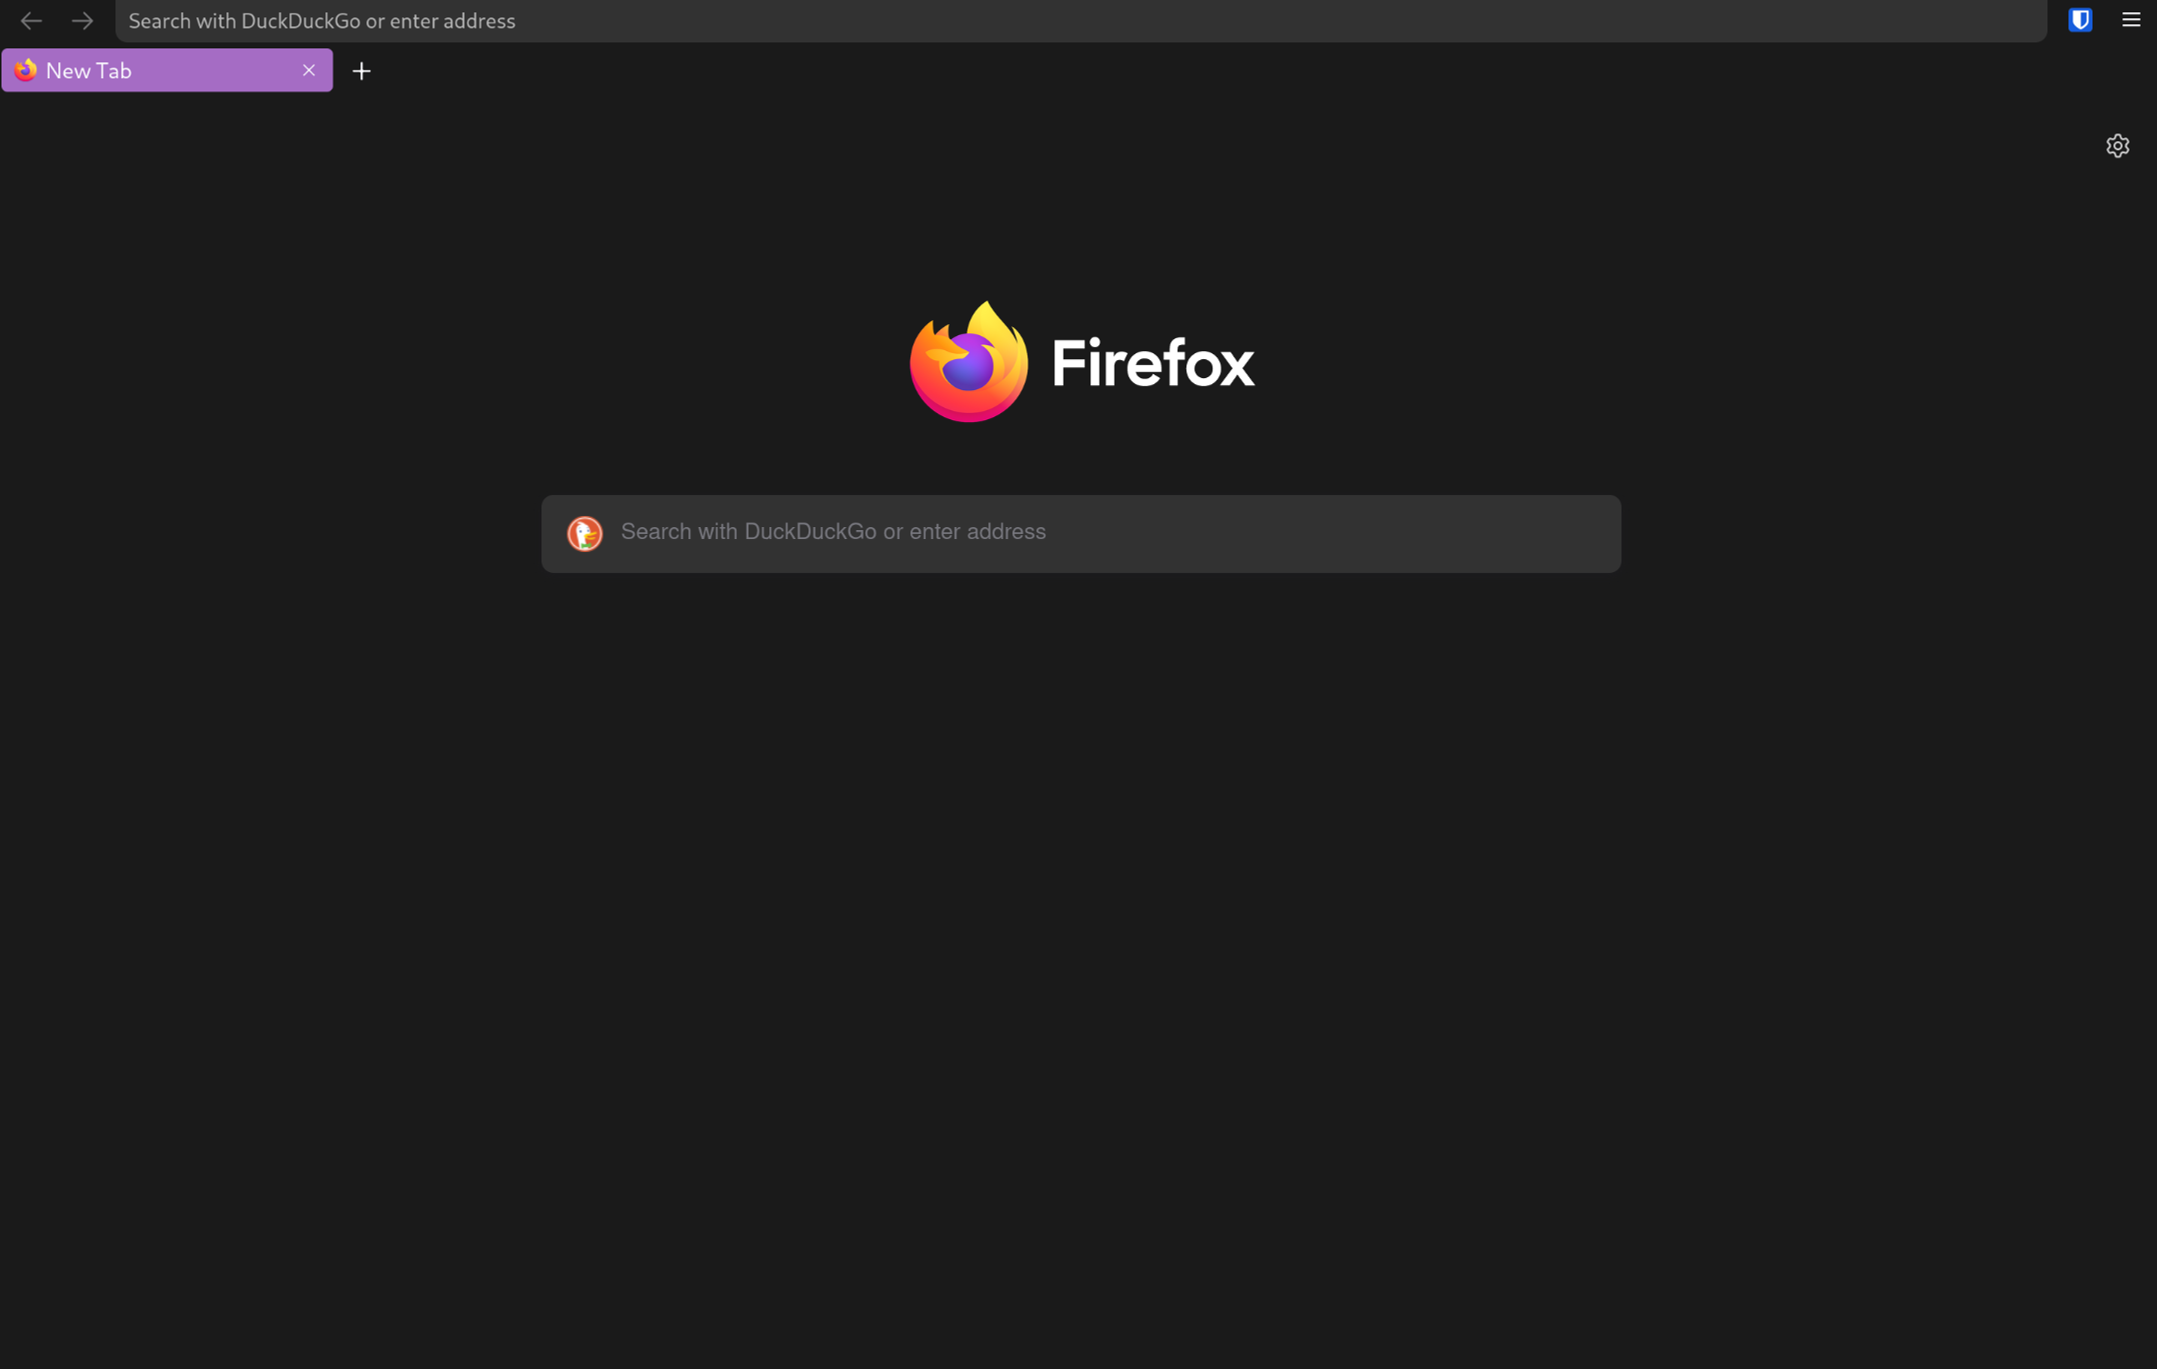
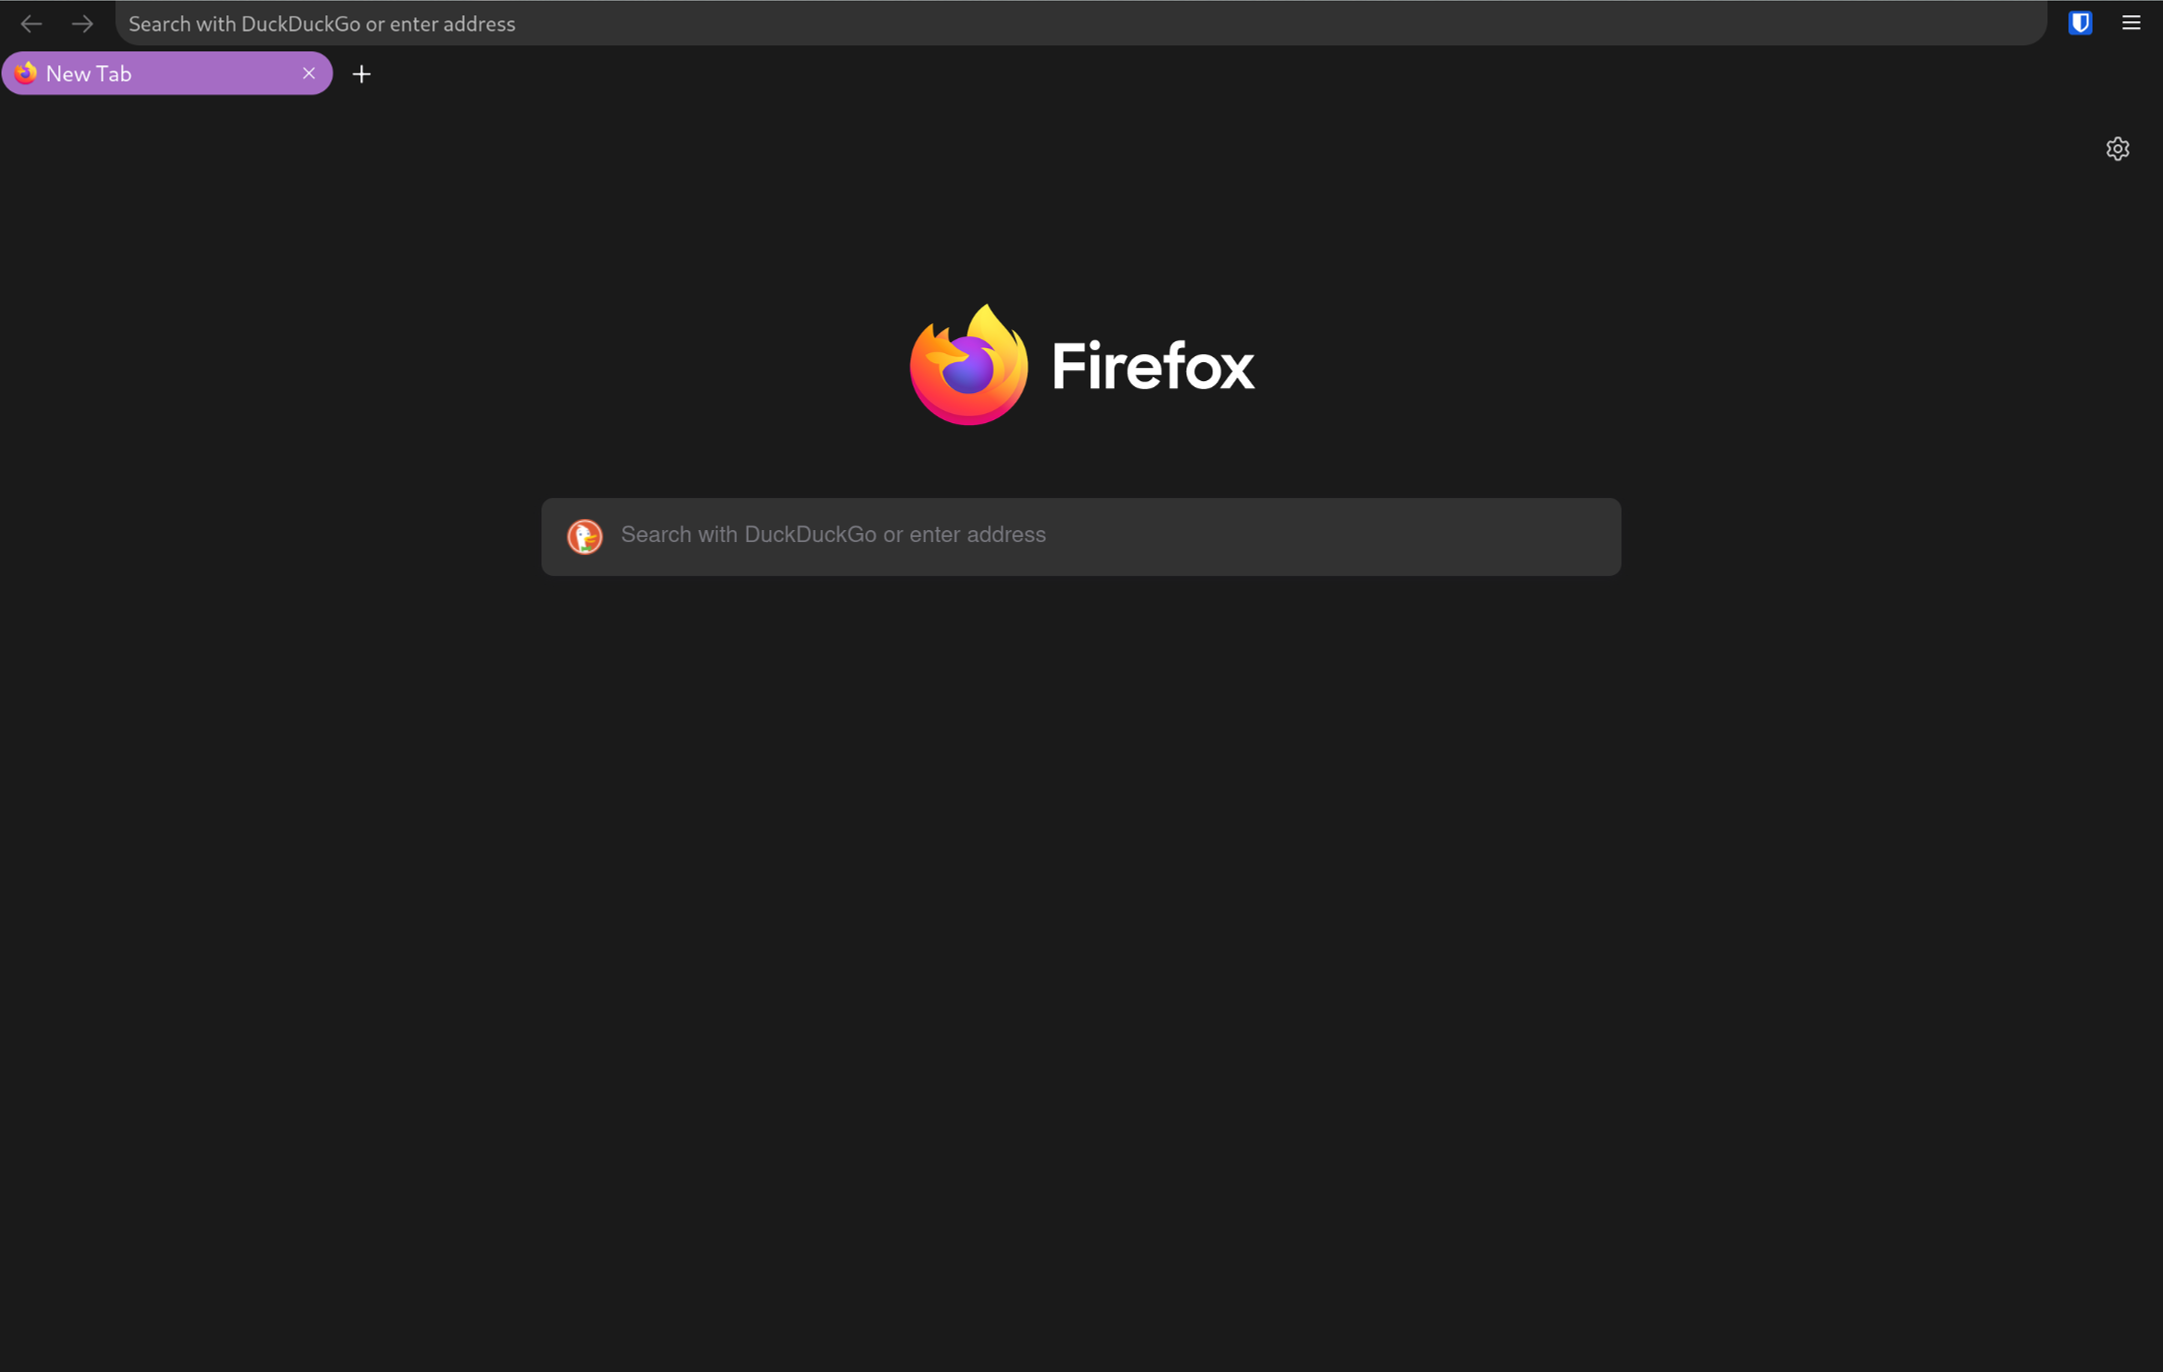
Better firefox styles, better screenshots, better readme

diff --git a/.mozilla/firefox/profile/chrome/userChrome.css b/.mozilla/firefox/profile/chrome/userChrome.css
@@ -1,5 +1,6 @@
 :root {
     --tabpanel-background-color: #1a1a1a !important;
+    --tab-border-radius: 16px !important;
 }
 
 :root:-moz-lwtheme-brighttext {
@@ -58,24 +59,29 @@ hbox#urlbar {
     position: aboslute !important;
     top: 0px !important;
     --urlbar-height: 30px !important;
+    margin-bottom: 4px;
 }
 
 hbox#urlbar-input-container {
-    border-radius: 0 0 8px 8px !important;
+    border-radius: 0 0 16px 16px !important;
 }
 
 hbox#urlbar-background {
-    border-radius: 0 0 8px 8px !important;
+    border-radius: 0 0 16px 16px !important;
 }
 
 hbox#page-action-buttons {
     display: none !important;
 }
 
-#urlbar.urlbarView {
+.urlbarView {
     font-size: 0.9rem !important;
 }
 
-#urlbar.search-one-offs:not([hidden]) {
+.search-one-offs {
+    display: none !important;
+}
+
+.urlbarView-url {
     display: none !important;
 }

diff --git a/README.md b/README.md
@@ -2,12 +2,30 @@
 
 ![Full Desktop Screenshot](./Pictures/screenshots/full.png)
 
+## File Structure / Explanation
+
+This configuration is setup for sway, a tiling window manager for Wayland. All configs pertaining to sway can be found
+in [.config/sway/config](./.config/sway/config)
+
+For the top bar I used waybar, whose configs and associated scripts can be found in [.config/waybar](./.configy/waybar)
+
 ![Waybar Screenshot](./Pictures/screenshots/waybar.png)
+
+All styles associated with firefox can be found at [.mozilla/firefox/profile/chrome](./.mozilla/firefox/profile/chrome/)
 
 ![Firefox Screenshot](./Pictures/screenshots/firefox.png)
 
-![Visual Studio Code Screenshot](./Pictures/screenshots/vscode.png)
+My alacritty config can be found at [.config/alacritty/config](./.config/alacritty/config)
 
 ![Alacritty Screenshot](./Pictures/screenshots/alacritty.png)
 
-![Vim Screenshot](./Pictures/screenshots/vim.png)
+For visual studio code styles, check out [my fork of the material theme](https://github.com/DevinVS/vsc-material-theme).
+
+![Visual Studio Code Screenshot](./Pictures/screenshots/vscode.png)
+
+All neovim configuration is done in [.config/nvim/init.vim](./.config/nvim/init.vim) and my vim theme is [my fork of the
+material theme for vim](https://github.com/DevinVS/material.vim)
+
+![Nvim Screenshot](./Pictures/screenshots/vim.png)
+
+Associated scripts along with the portal script are found in [bin](./bin)
